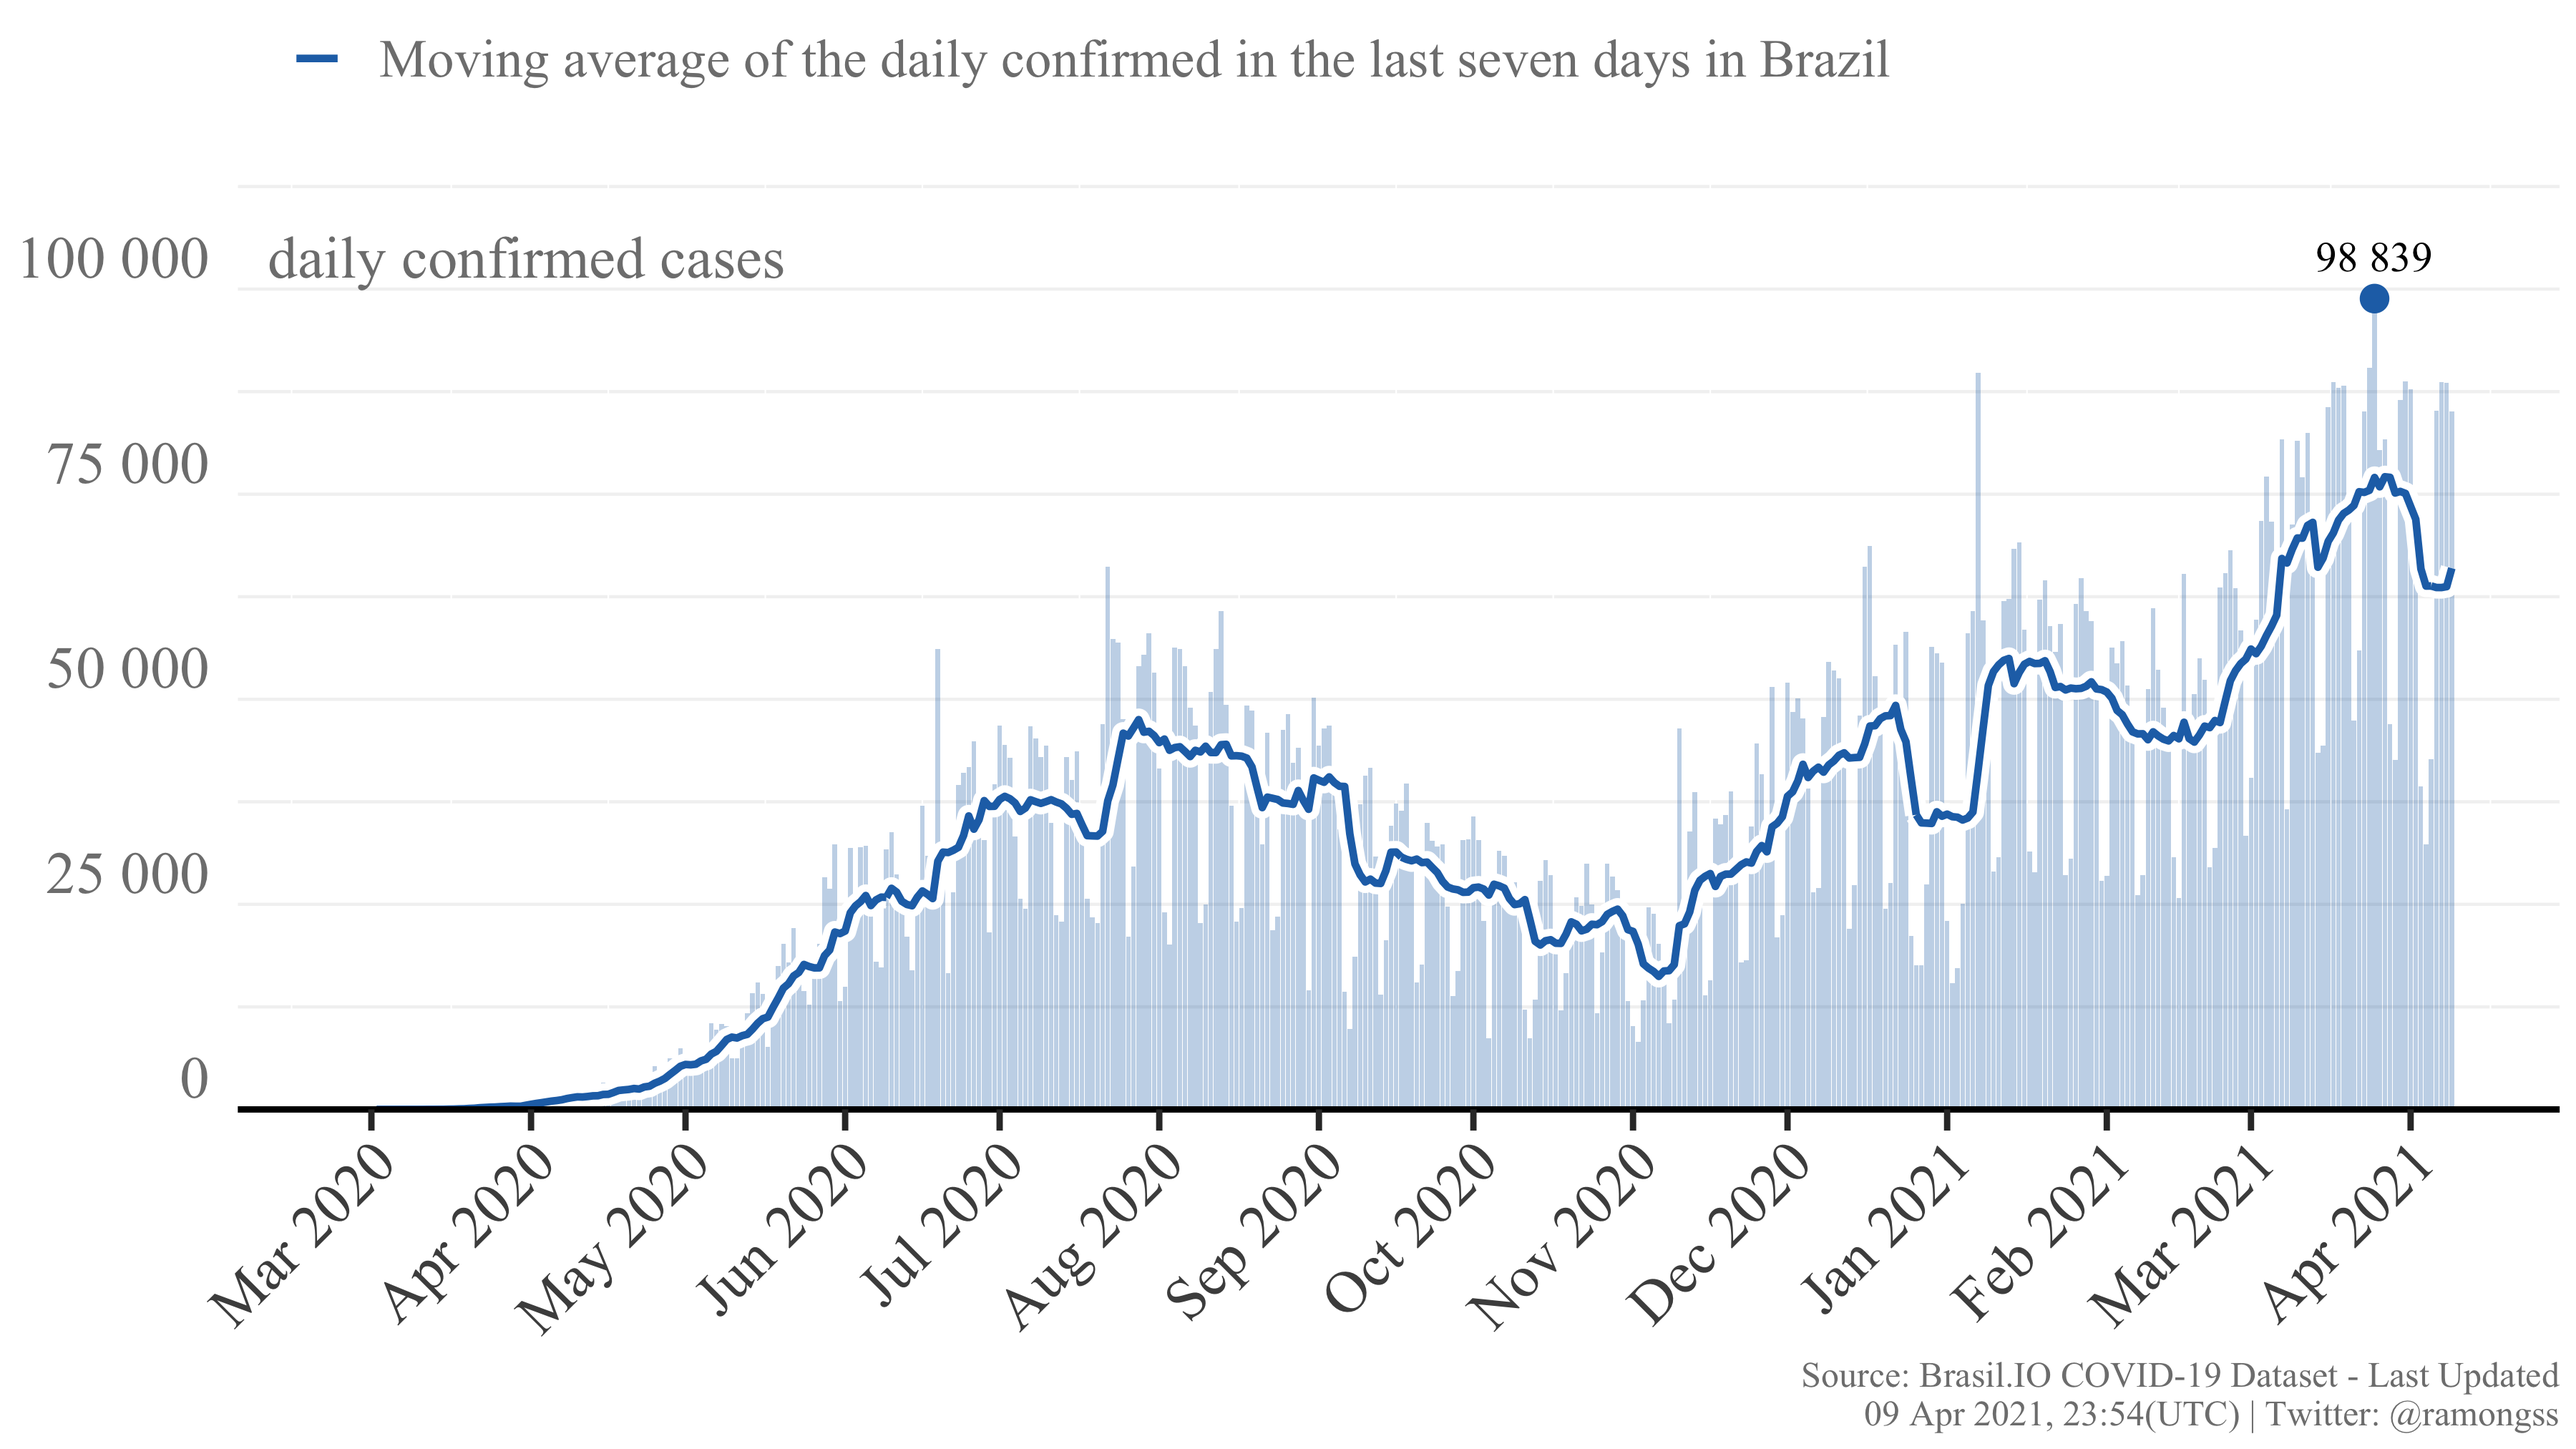
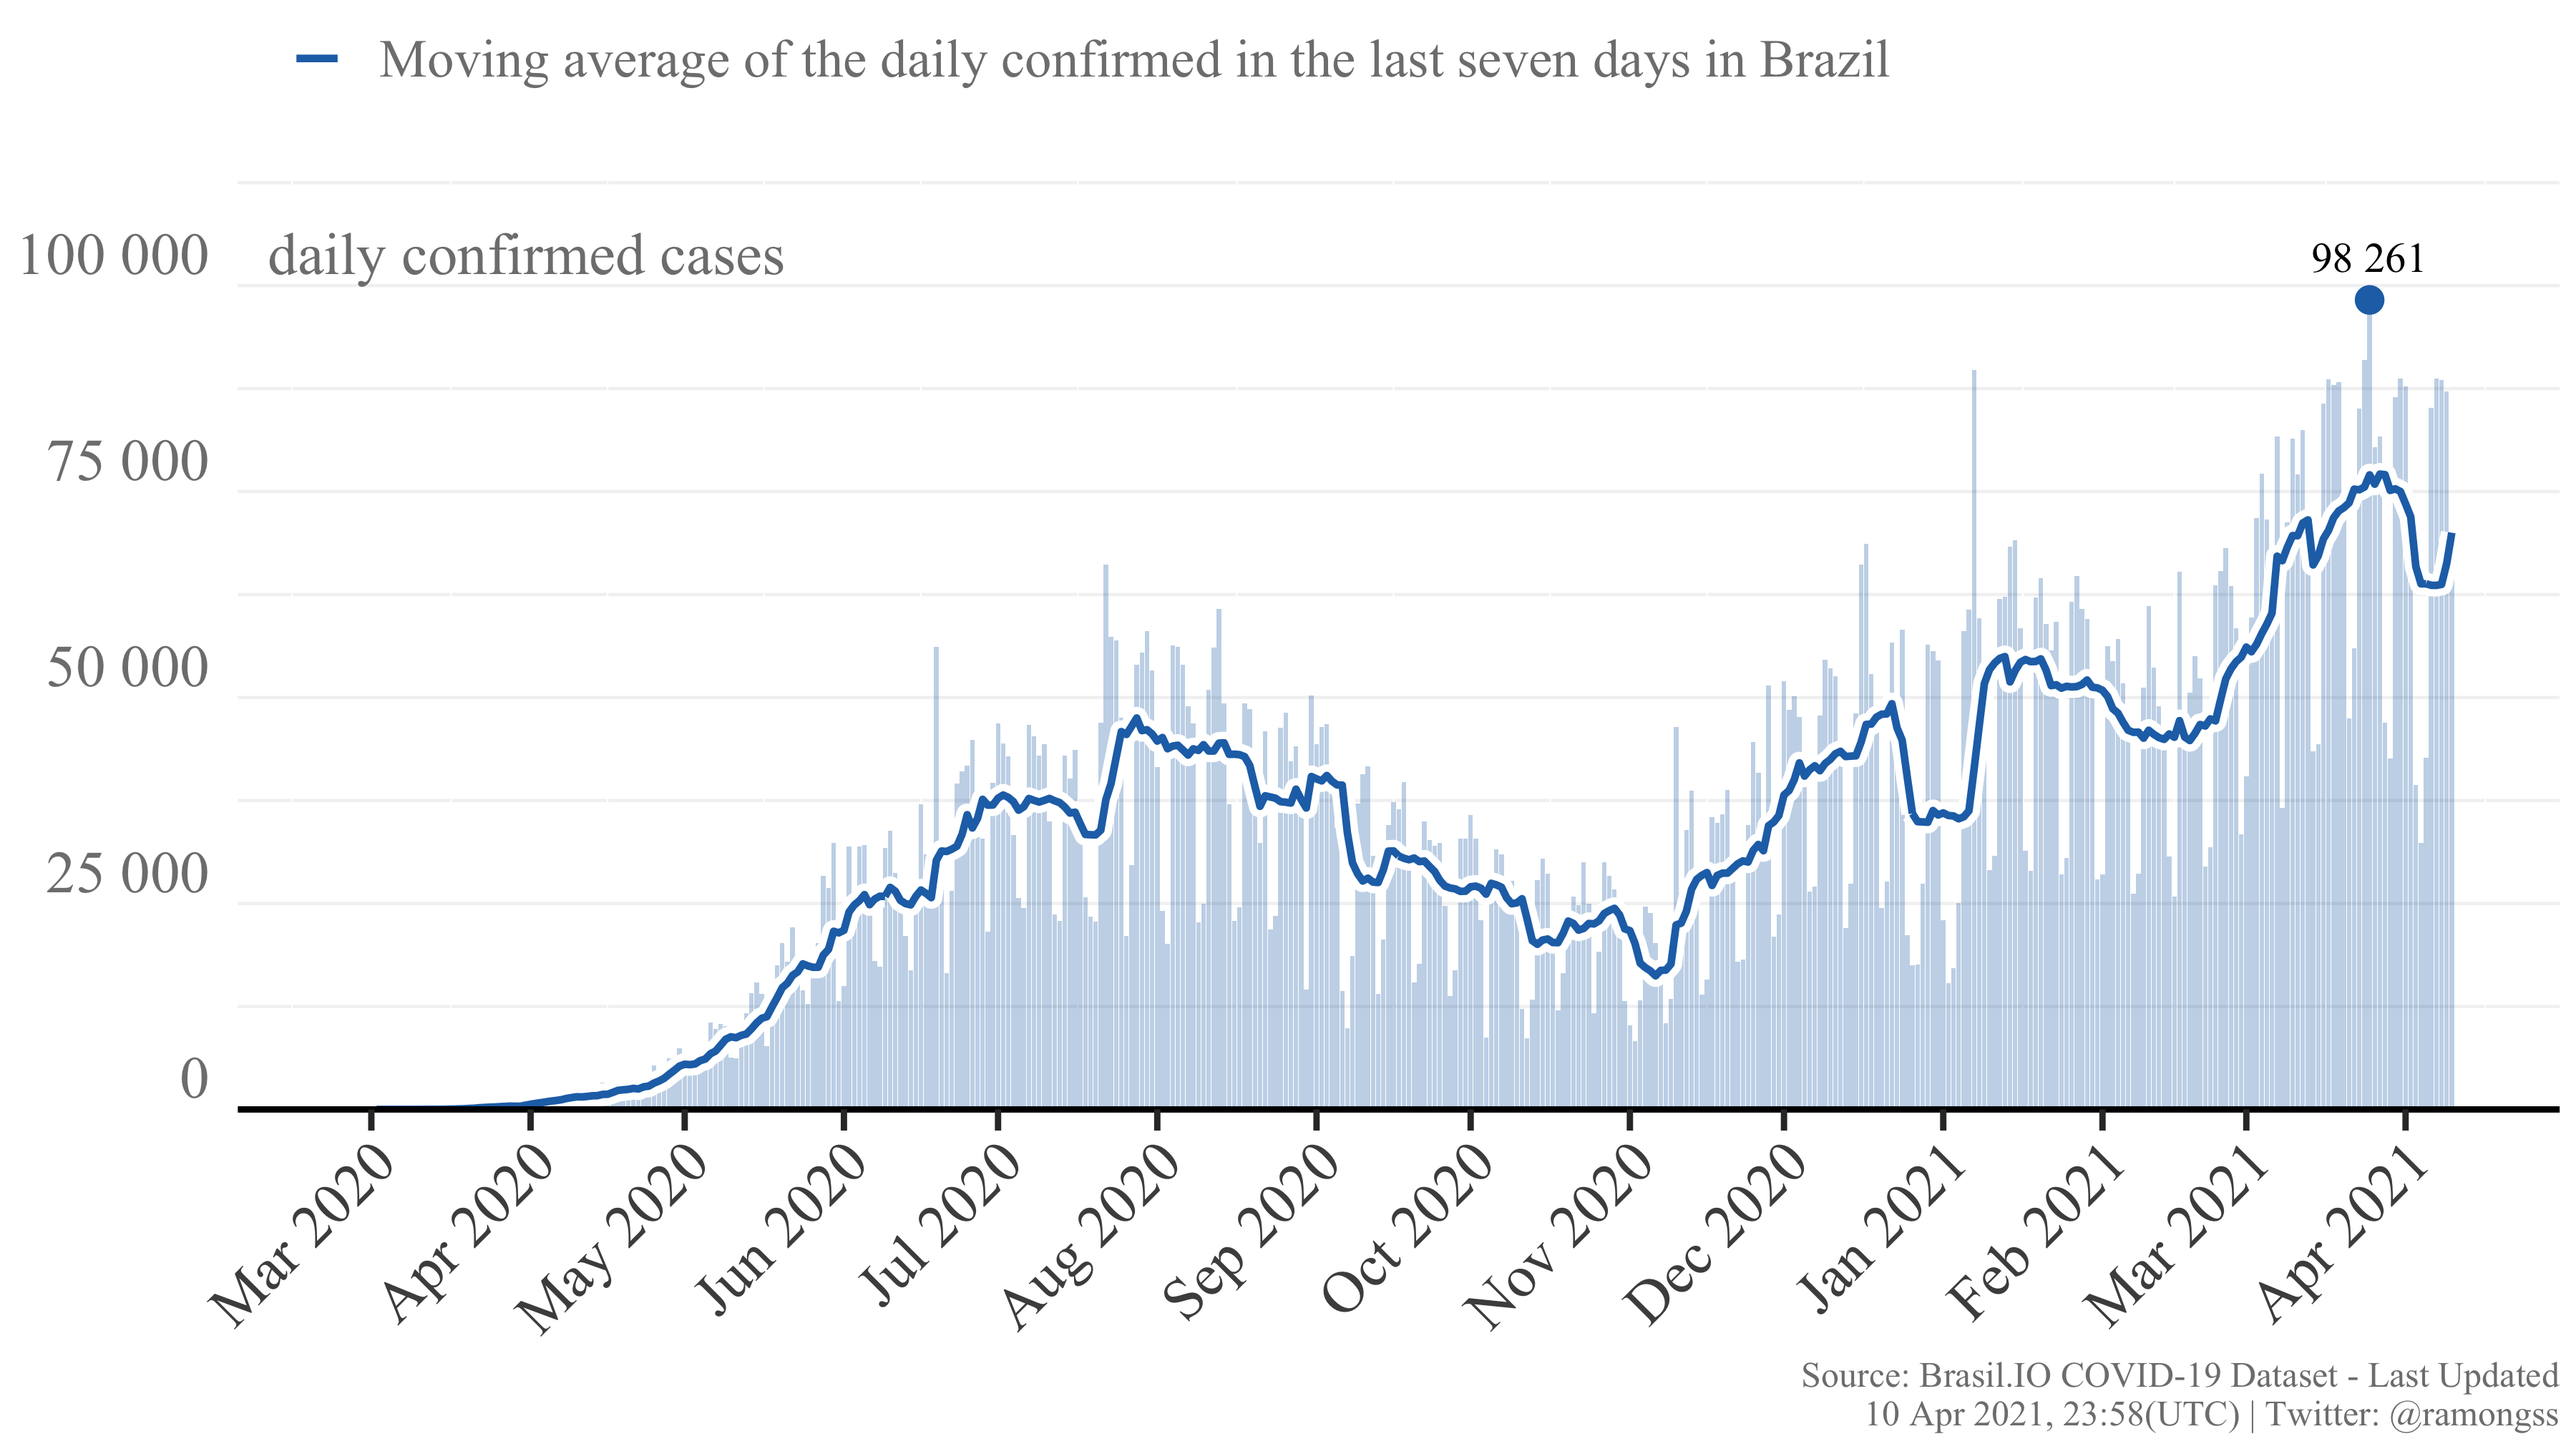
Re-build README.Rmd

diff --git a/README.md b/README.md
@@ -27,9 +27,9 @@ download_brasilio_table <- function(dataset = "covid19", table_name){
 
 ## COVID-19 Confirmed cases
 
-Currently, Brazil has a total of **13,382,357** confirmed cases at **09
-Apr, 2021**, with **85,087** new confirmed cases. The daily maximum
-incidence was **98,839** confirmed cases at **25 Mar, 2021**. Here
+Currently, Brazil has a total of **13,449,940** confirmed cases at **10
+Apr, 2021**, with **65,547** new confirmed cases. The daily maximum
+incidence was **98,261** confirmed cases at **25 Mar, 2021**. Here
 follows the Figure showing the confirmed case incidence as the bars, and
 the line as the moving average of the last 7 days.
 
@@ -37,8 +37,8 @@ the line as the moving average of the last 7 days.
 
 ## COVID-19 Deaths
 
-Currently, Brazil has a total of **349,081** deaths at **09 Apr, 2021**,
-with **3,537** new deaths. The daily maximum deaths incidence was
+Currently, Brazil has a total of **351,590** deaths at **10 Apr, 2021**,
+with **2,428** new deaths. The daily maximum deaths incidence was
 **4,148** deaths at **08 Apr, 2021**. Here follows the Figure showing
 the deaths incidence as the bars, and the line as the moving average of
 the last 7 days.
@@ -49,4 +49,4 @@ the last 7 days.
 
 This page is daily updated automatically using Github Actions.
 
-*Last update: 09 Apr 2021, 23:54 (UTC).*
+*Last update: 10 Apr 2021, 23:58 (UTC).*
